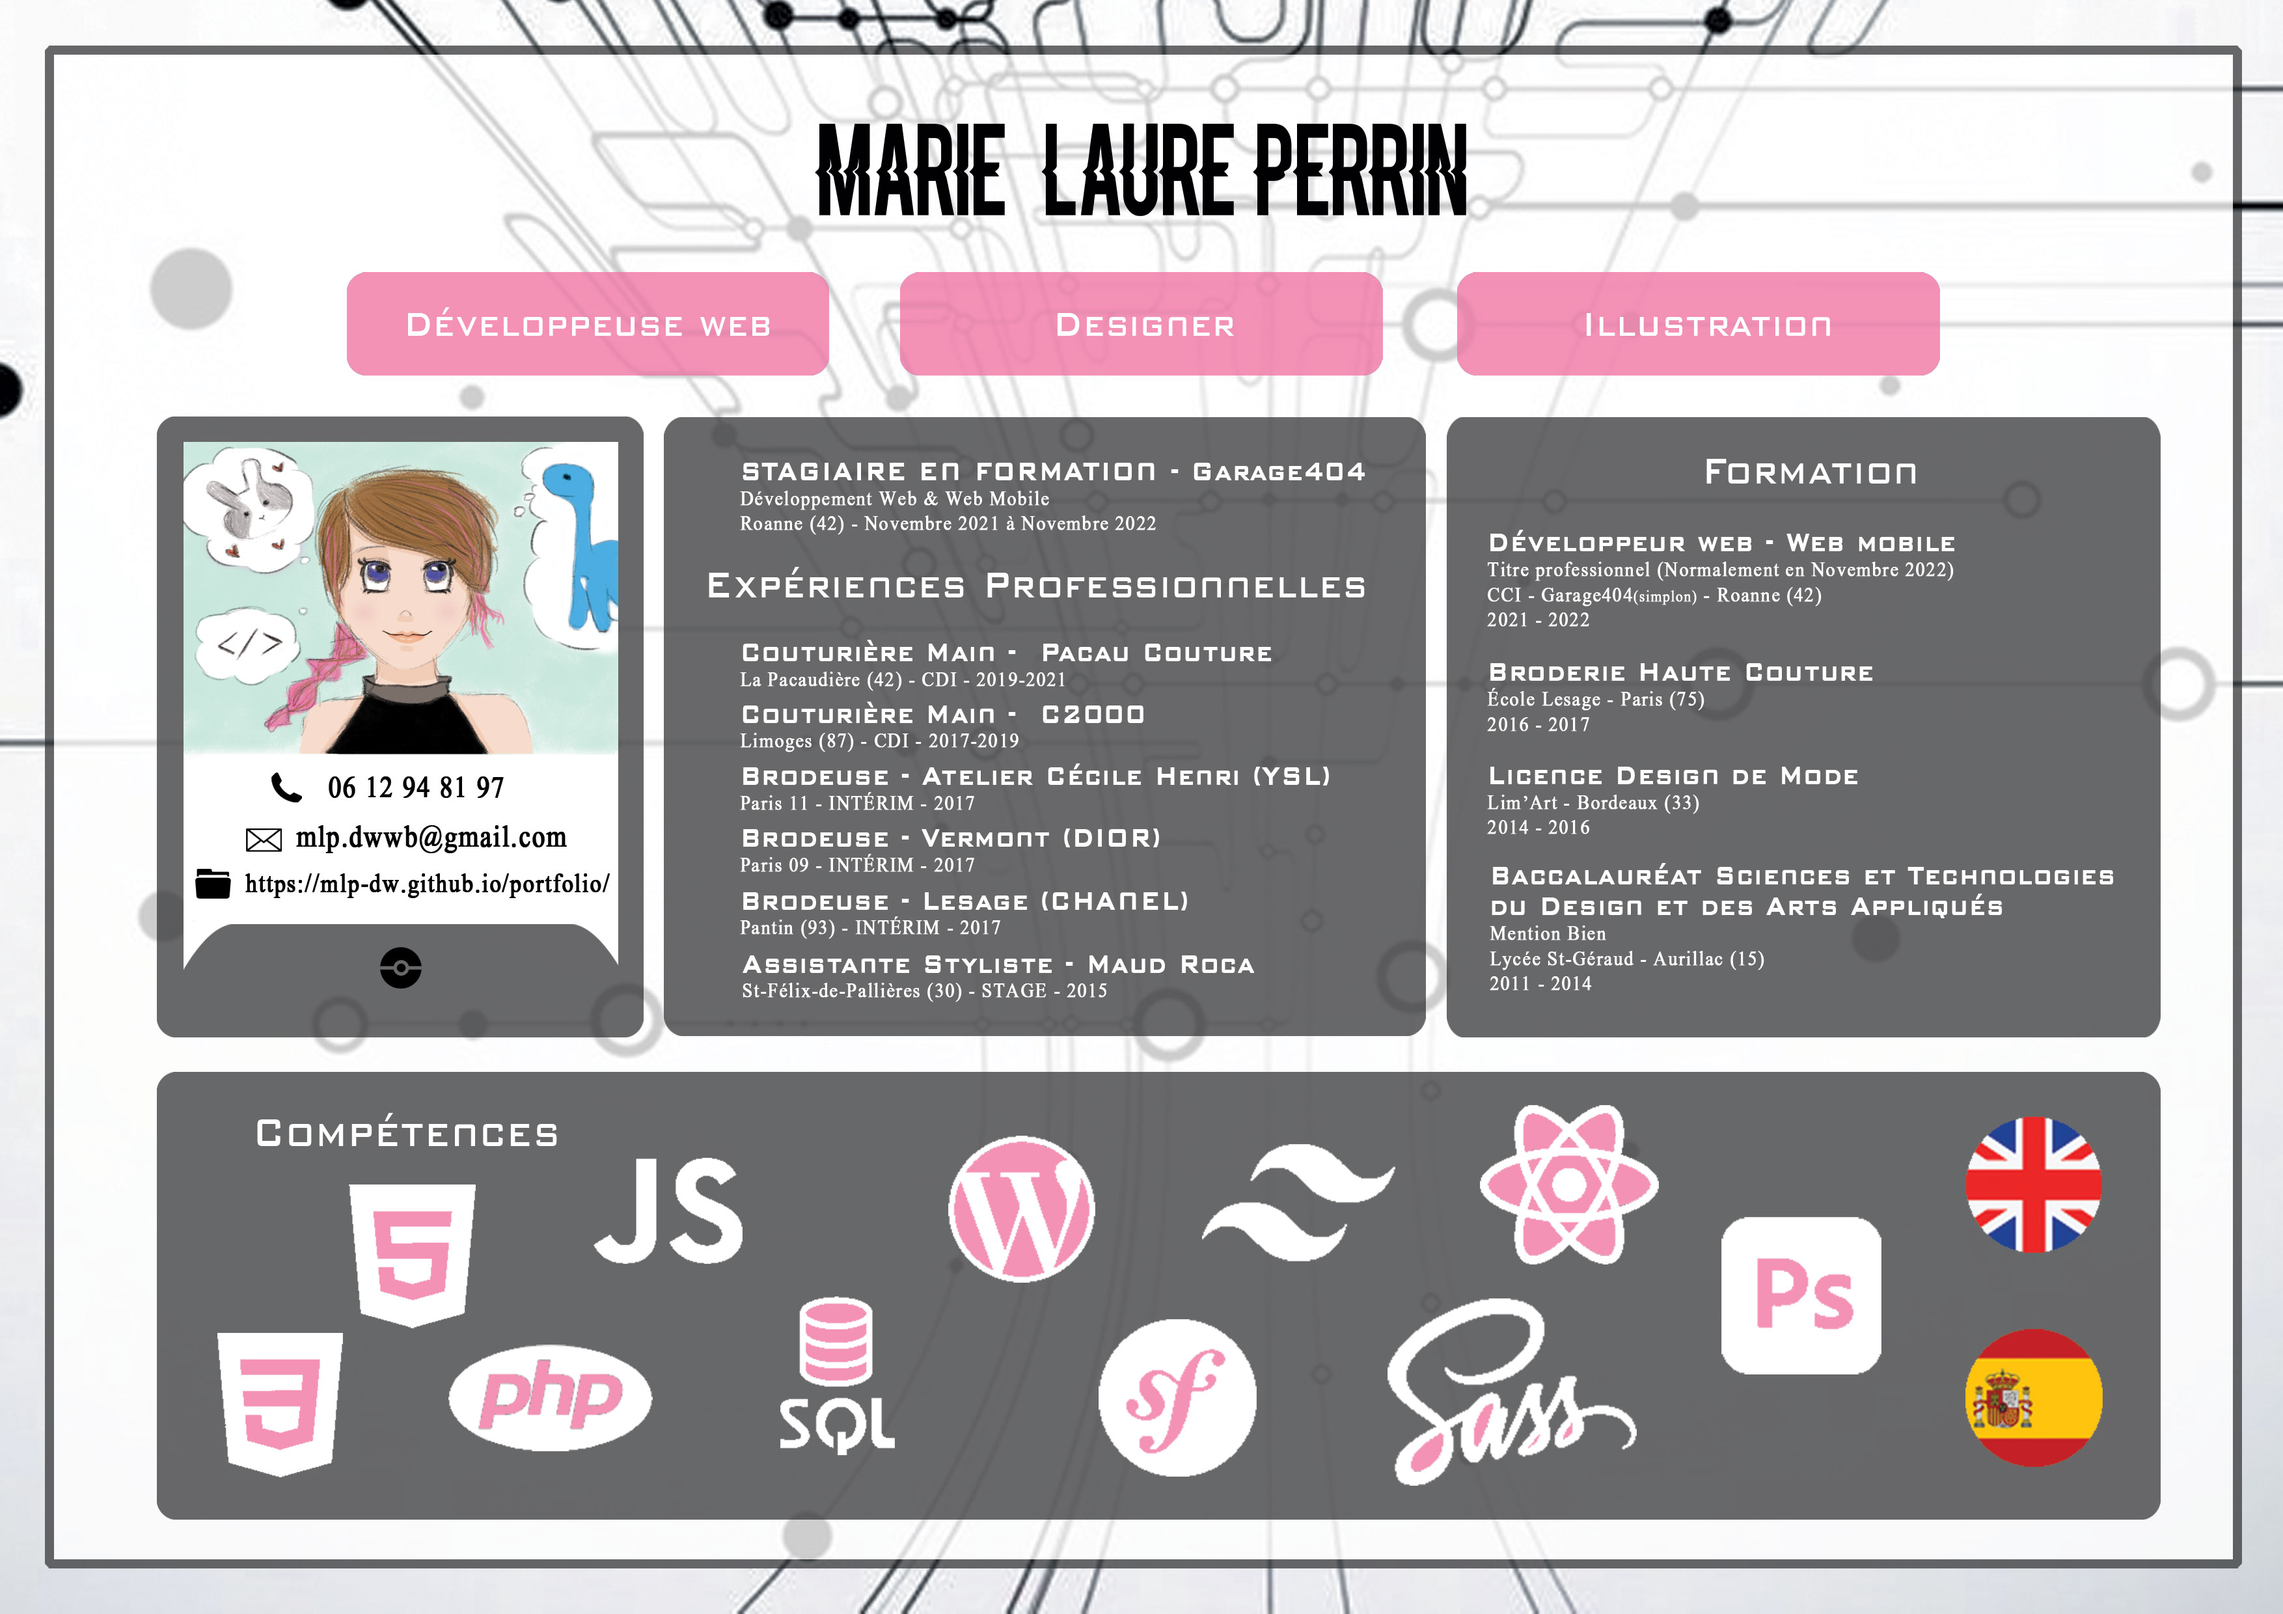
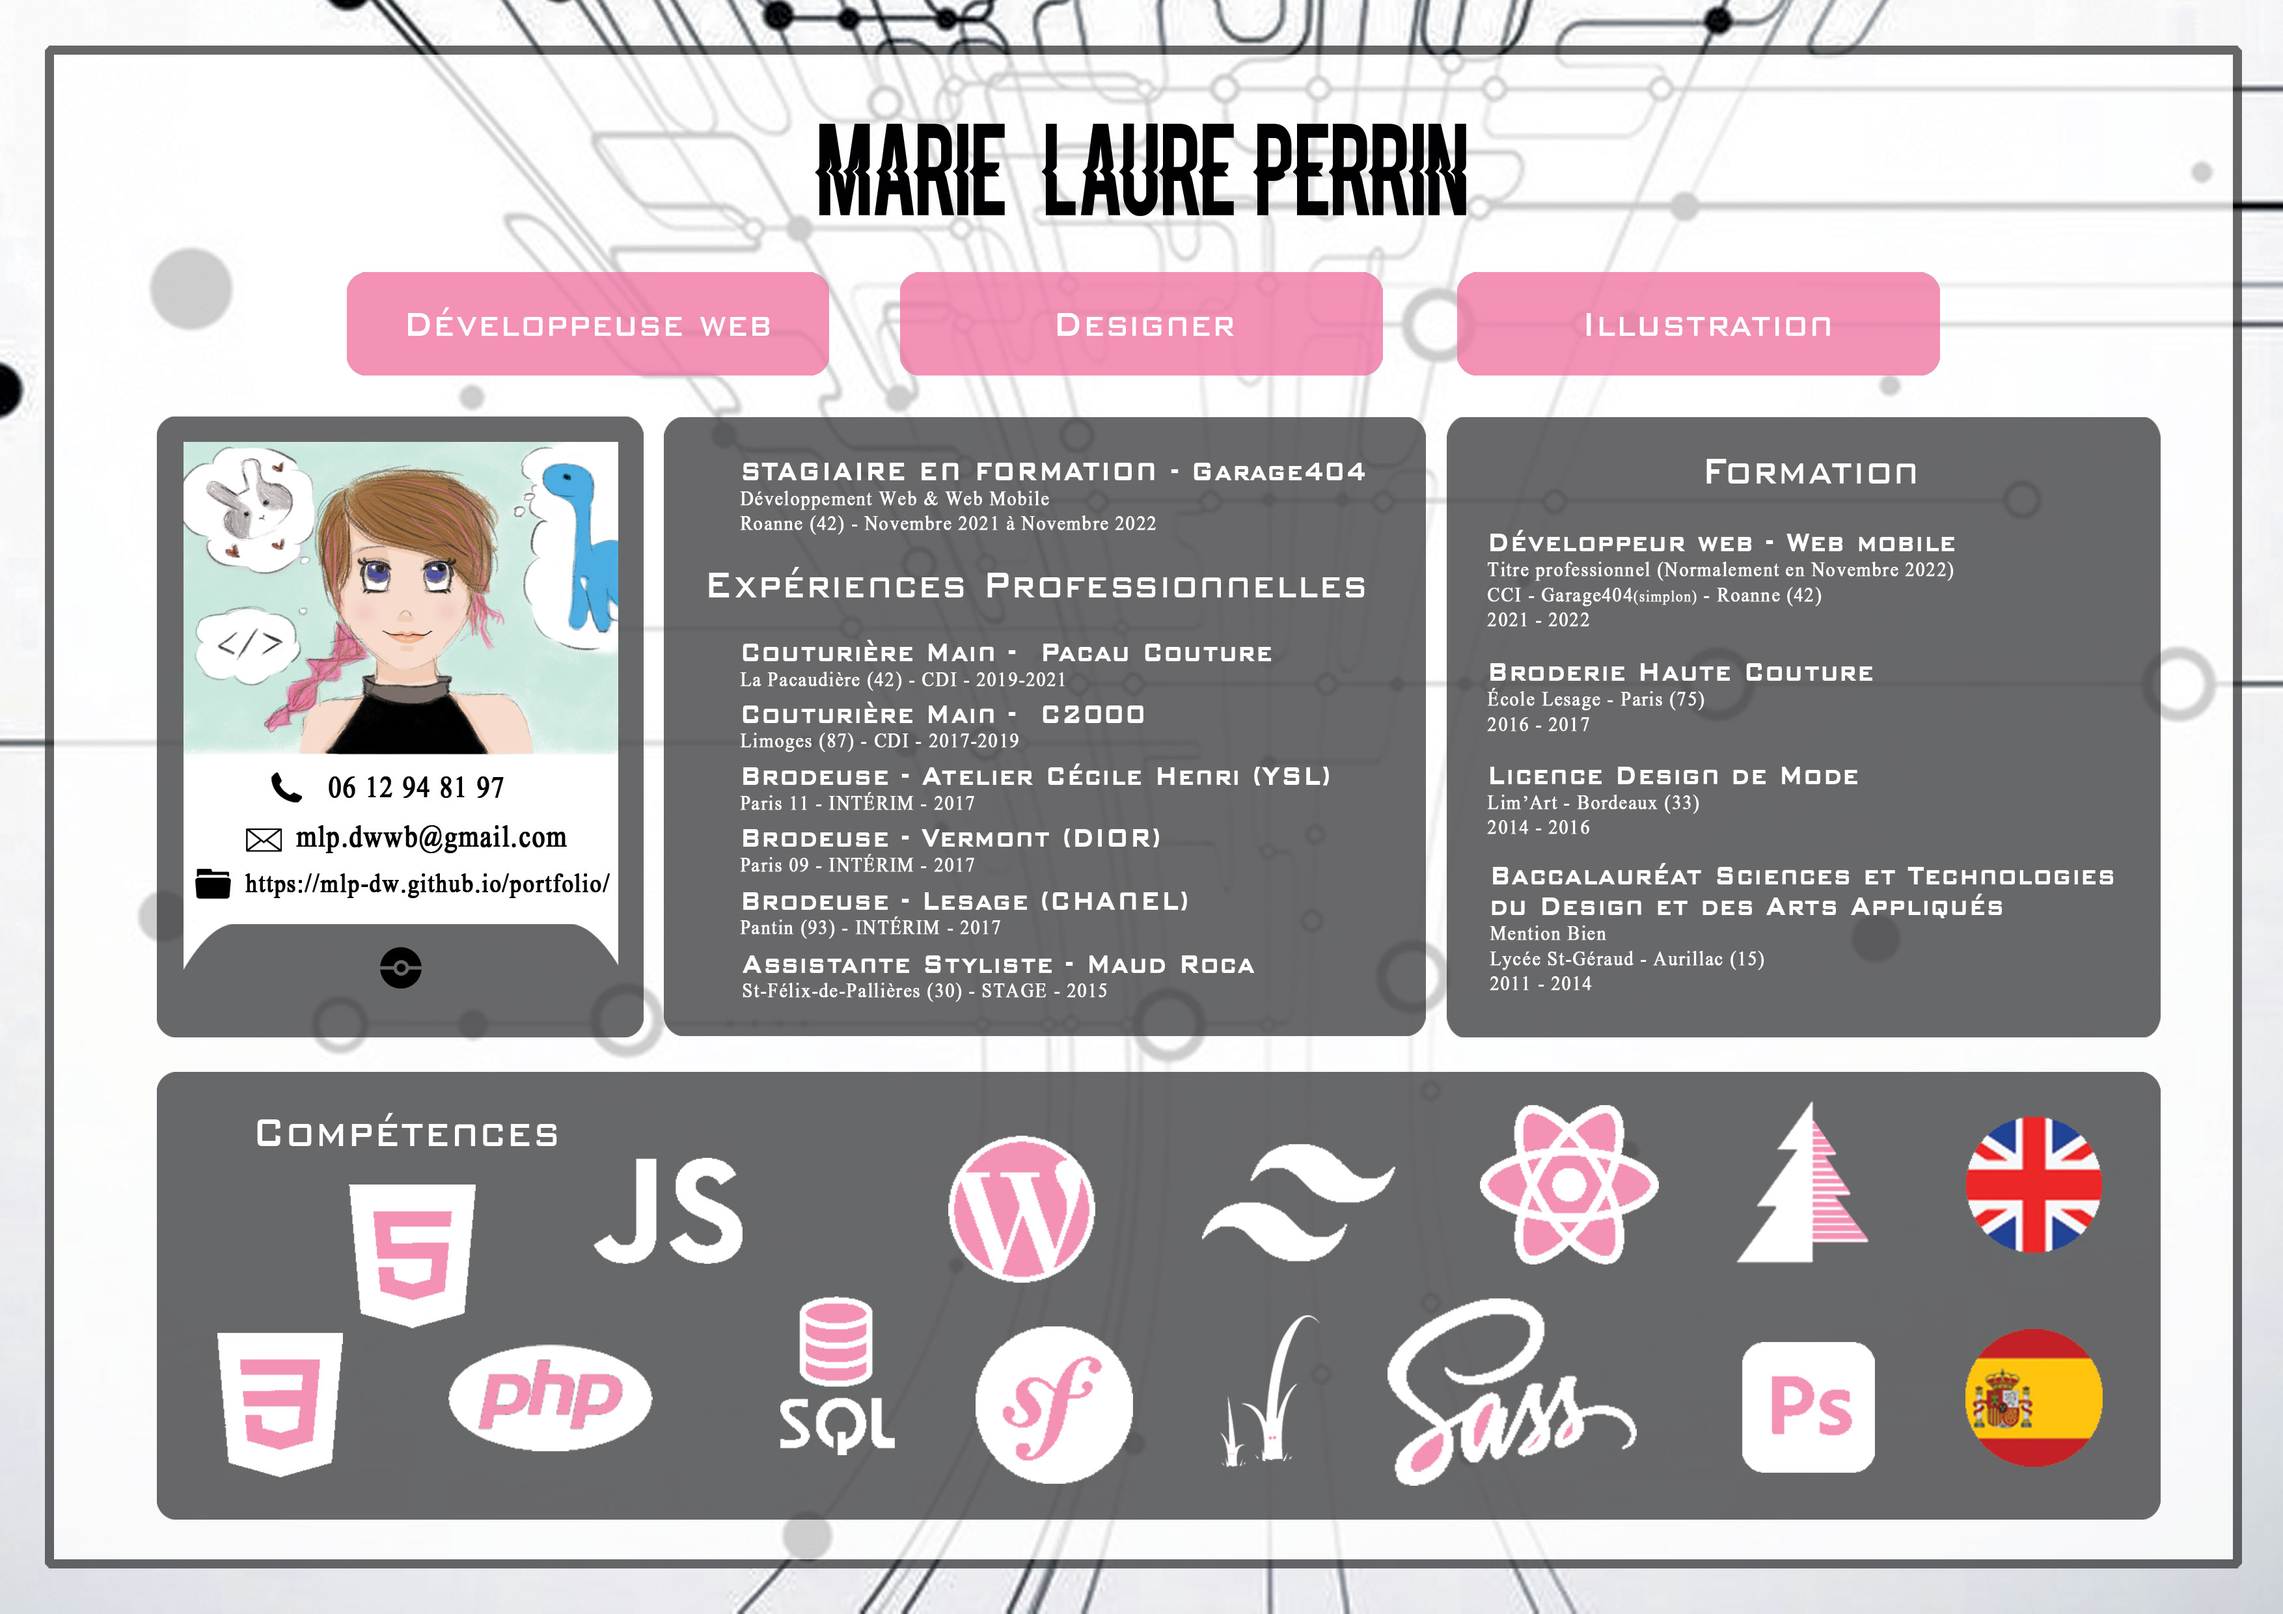
MAJ 02-11-22

Changed region(s): [[0.7457, 0.6831, 0.8389, 0.9315], [0.4039, 0.8073, 0.5904, 0.9315]]

diff --git a/index.html b/index.html
@@ -247,6 +247,24 @@
                 <img src="images/tailwind.png" alt="tailwind-logo" class="w-24 h-auto">
             </div>
             <div class="ring neon-white flex justify-center items-center m-5 colorBlock">
+                <img src="images/timber.png" alt="timber-logo" class="w-24 h-auto">
+            </div>
+            <div class="ring neon-white flex justify-center items-center m-5 colorBlock">
+                <img src="images/twig.png" alt="twig-logo" class="w-24 h-auto">
+            </div>
+            {# <div class="ring neon-white flex justify-center items-center m-5 colorBlock">
+                <img src="images/espagnol.png" alt="spanish-flag" class="w-24 h-auto">
+            </div> #}
+            {# <div class="ring neon-white flex justify-center items-center m-5 colorBlock">
+                <img src="images/espagnol.png" alt="spanish-flag" class="w-24 h-auto">
+            </div> #}
+            {# <div class="ring neon-white flex justify-center items-center m-5 colorBlock">
+                <img src="images/espagnol.png" alt="spanish-flag" class="w-24 h-auto">
+            </div> #}
+        </div>
+
+        <div class="flex flex-row flex-wrap justify-around m-10 competence">
+            <div class="ring neon-white flex justify-center items-center m-5 colorBlock">
                 <img src="images/photoshop.png" alt="photoshop-logo" class="w-24 h-auto">
             </div>
             <div class="ring neon-white flex justify-center items-center m-5 colorBlock">
